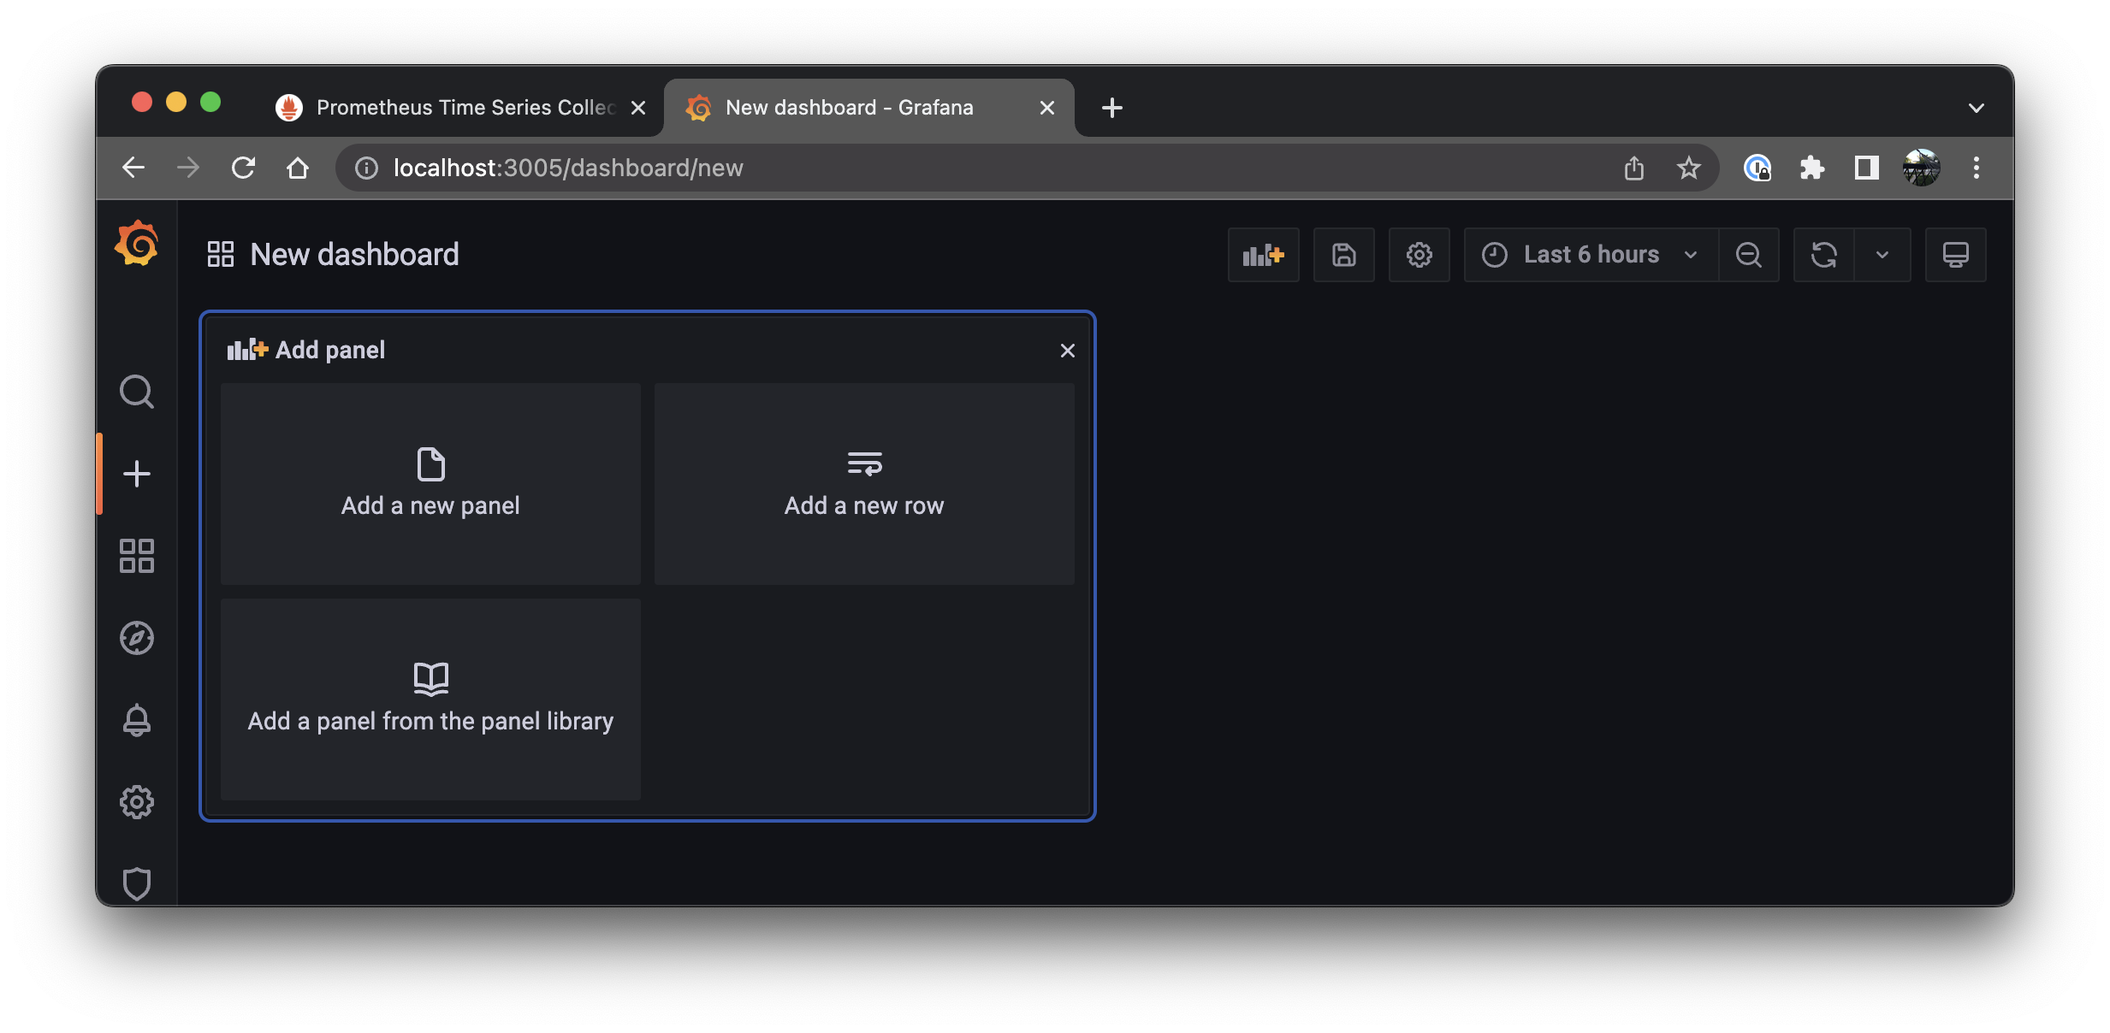
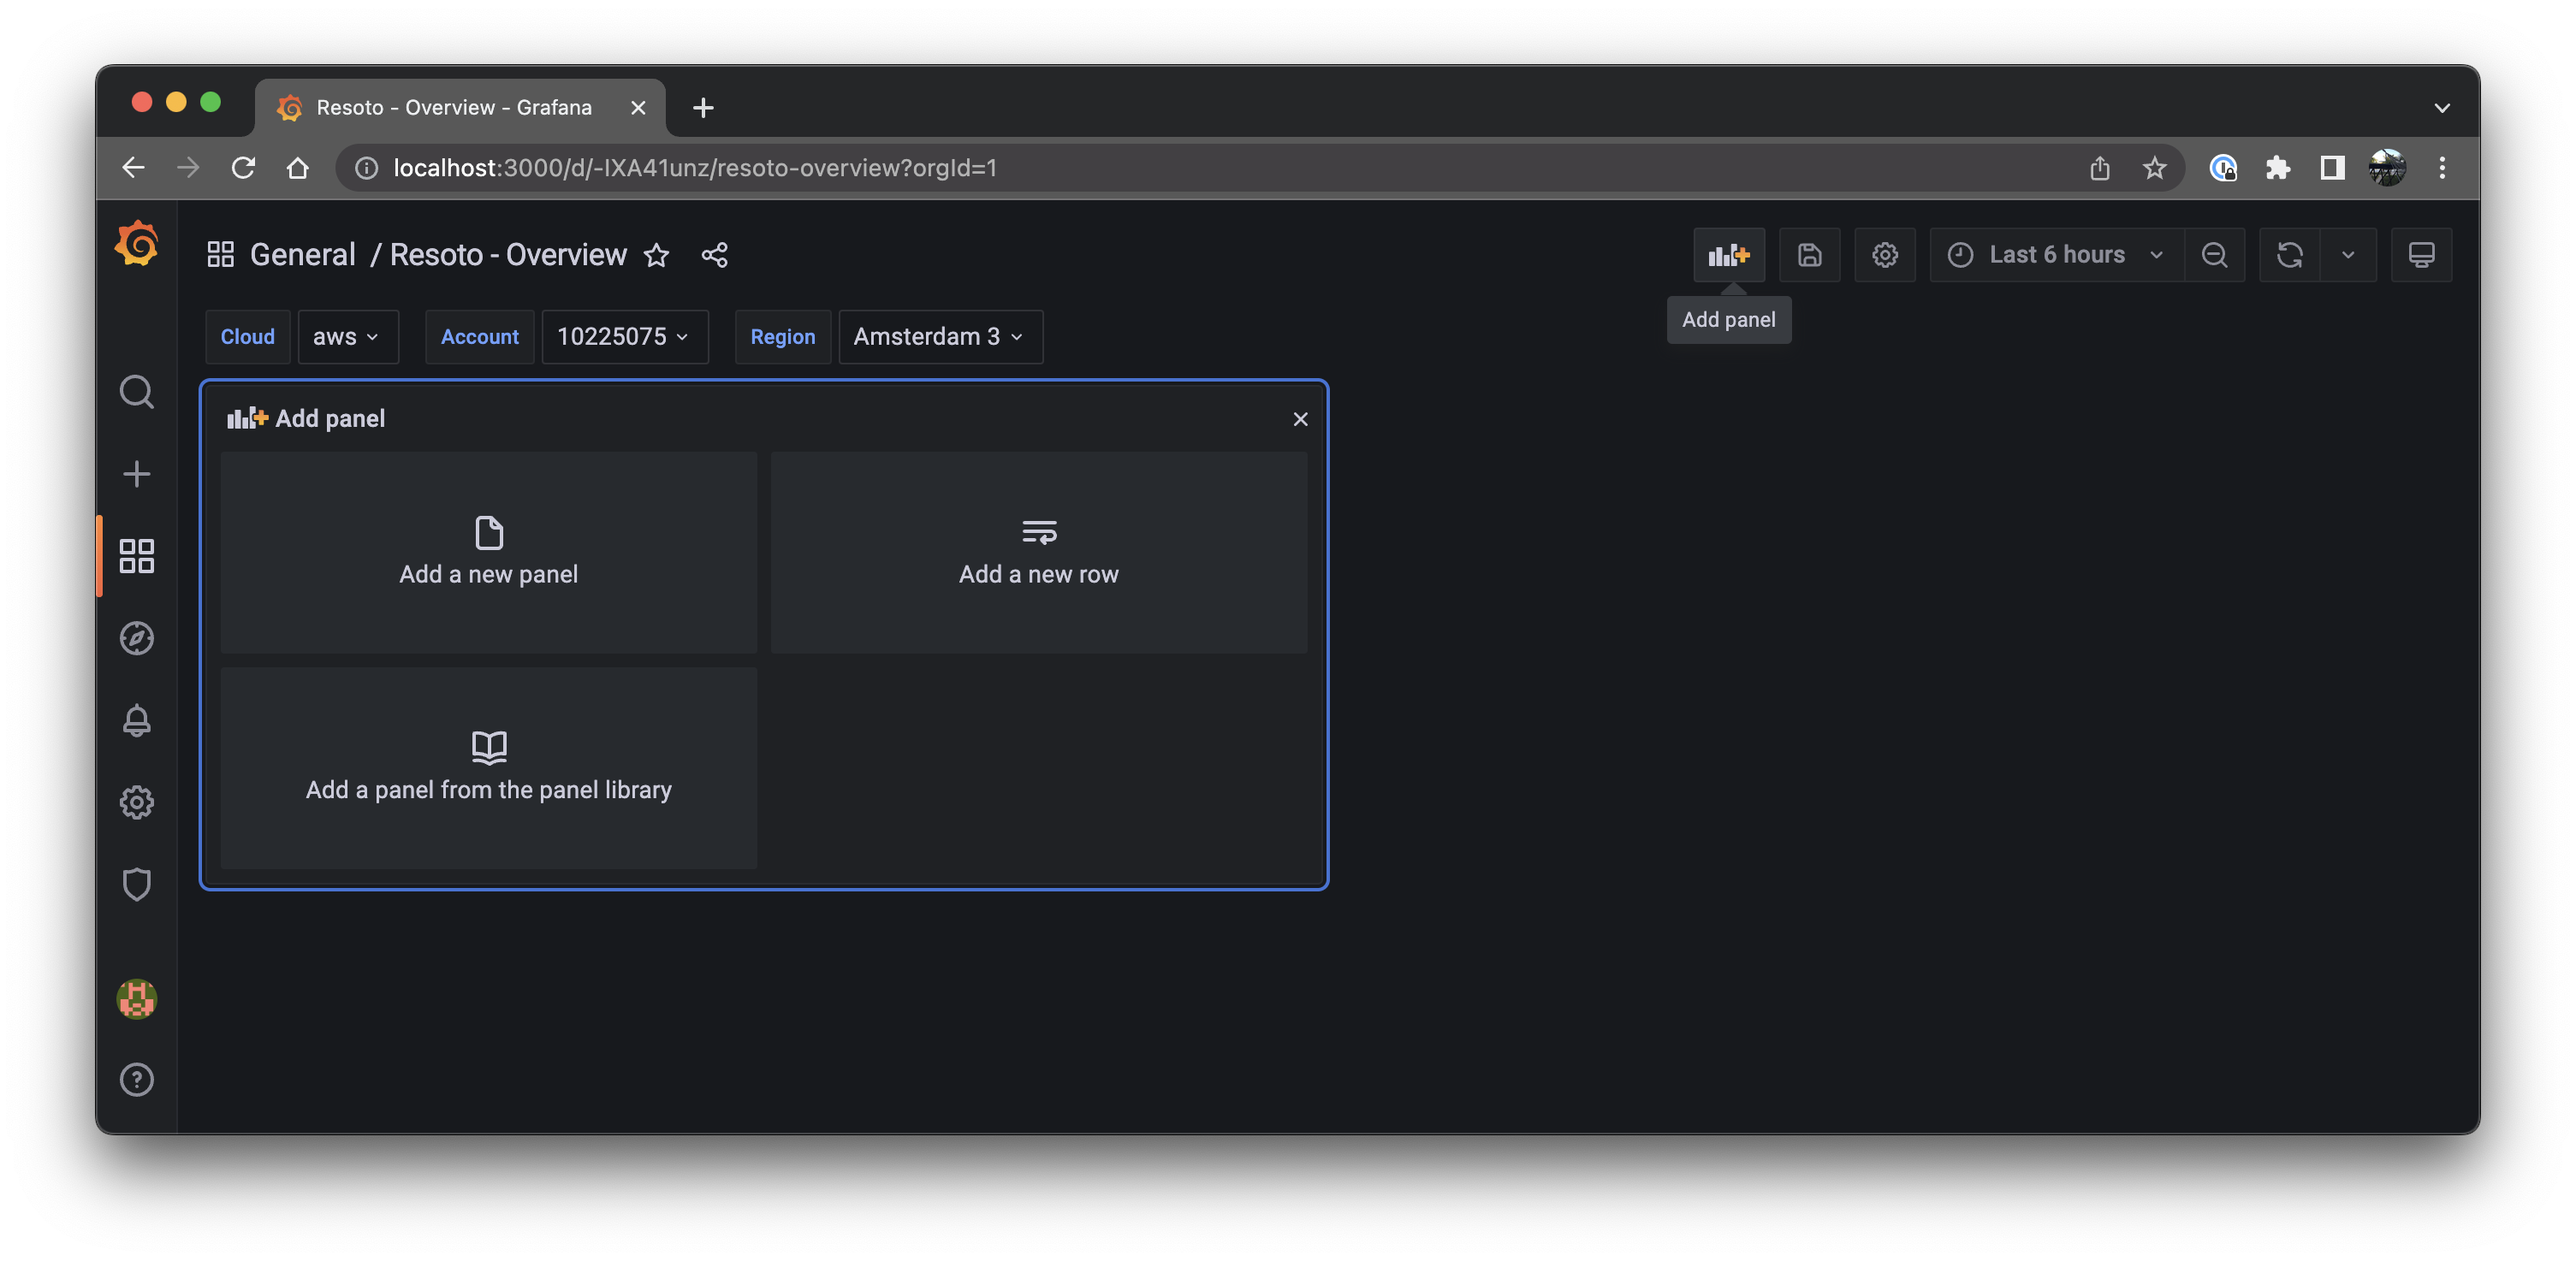
docs(docs): stuff

diff --git a/blog/2022/05-16-resoto-metrics/index.md b/blog/2022/05-16-resoto-metrics/index.md
@@ -251,7 +251,7 @@ $ docker run -d -p 3000:3000 -v grafana-data:/var/lib/grafana -v grafana-etc:/et
 
 3. Login as `admin` with password `admin` and set a new password.
 
-4. Go to Settings > Data Sources > Add Data Source > Prometheus
+4. On the left go to Settings > Data Sources > Add Data Source > Prometheus
 
 5. In the URL field, enter the Prometheus URL e.g. `http://tsdb.docker.internal:9090`
 
@@ -261,29 +261,80 @@ $ docker run -d -p 3000:3000 -v grafana-data:/var/lib/grafana -v grafana-etc:/et
 
 ![Save Data Source](img/grafana_setup2.png)
 
-7. On the left click on the `+` button and select `Create Dashboard`.
+7. On the left click on the `+` button and select `Create Dashboard`, then click the `Save` button in the top menu bar.
 
-8. On the top click on `Settings` > `Variables` and `Add variable`.
+![Save dashboard](img/grafana_save_dashboard.png)
+
+8. On the top click on `Dashboard settings` > `Variables` and `Add variable`.
 
 ![Add Variable](img/grafana_add_variable.png)
 
-9. As Name choose `cloud`, as Label `Cloud`, as Query enter `label_values(resoto_instances_total, cloud)` and select `Multi-value` and `Include All option`. Make sure that the `Preview of values` shows the available clouds and click `Update`.
+9. As Name choose `cloud`, as Label `Cloud`, as Query enter `label_values(cloud)` and select `Multi-value` and `Include All option`. Make sure that the `Preview of values` shows the available clouds and click `Update`.
 
 ![Configure Variable](img/grafana_configure_variable.png)
 
 10. Repeat Step 9 for
 
-- Name `account`, Label `Account`, Query `label_values(resoto_instances_total, account)` and
-- Name `region`, Label `Region`, Query `label_values(resoto_instances_total, region)`.
+- Name `account`, Label `Account`, Query `label_values(account)` and
+- Name `region`, Label `Region`, Query `label_values(region)` with `Multi-value` and `Include All option` turned on.
 
-11. Hit `ESC` and on the top of the page click on `Add a new panel`.
+![Variables](img/grafana_variables.png)
+
+11. Hit `ESC` on your keyboard to go back and on the top of the page click on `Add new panel`.
 
 ![Add a new panel](img/grafana_add_new_panel.png)
 
-12. On the right in `Panel Options` enter Title `Instances Total`.
+12. Apply the following Settings then click `Save` in the top right.
 
-13.
+- In the query field next to "Metrics browser" enter
+
+```
+sum(avg_over_time(resoto_instances_total{cloud=~"$cloud", account=~"$account", region=~"$region", status="running"}[$__interval])) by (cloud, account)
+```
+
+- On the right in `Panel Options` enter Title `Instances Total - running`.
+- Legend > Legend mode: Hidden
+- Graph styles > Line width: 4
+- Graph styles > Fill opacity: 40
+- Graph styles > Connect null values: Always
+- Graph styles > Stack series: Normal
+
+![Setup of a new panel](img/grafana_setup_panel.png)
+
+- Click `Apply` in the top left.
+
+13. Congratulations this is the start of your Resoto dashboard!
+
+![Initial dashboard](img/grafana_initial_dashboard.png)
+
+Do not forget to press the `Save` button whenever you make changes to the dashboard!
+
+14. Next let's add a second panel with the following settings.
+
+- In the query field next to "Metrics browser" enter
 
 ```
 sum(avg_over_time(resoto_instances_total{cloud=~"$cloud", region=~"$region", account=~"$account", status="running"}[$__interval]))
 ```
+
+- In the top right of the panel page instead of `Time series` choose `Stats` from the dropdown menu.
+- Panel options > Title: `Instances $cloud - running`
+- Value Options > Calulation: Last\*
+- Stat styles > Color mode: None
+- Stat styles > Graph mode: None
+
+![Setup of a second panel](img/grafana_second_panel.png)
+
+15. On the dashboard page reduce the size of the new panel a bit. Congratulations, the dashboard now shows two panels. One with the number of currently running instances, the other shows the history of the number of instances.
+
+![Dashboard with second panel](img/grafana_second_panel_dashboard.png)
+
+## The end product
+
+If we repeat the above steps for [all the metrics we saw before](#how-metrics-are-made), we will get a dashboard that looks like this:
+
+![Finished Dashboard](img/grafana_finished_dashboard.png)
+
+This is the actual production dashboard from a current Resoto user. They were nice enough to contribute [the Grafana dashboard templates](https://github.com/someengineering/resoto/tree/main/contrib/grafana-dashboards) so you don't have to create them yourself.
+
+But now you know how!
